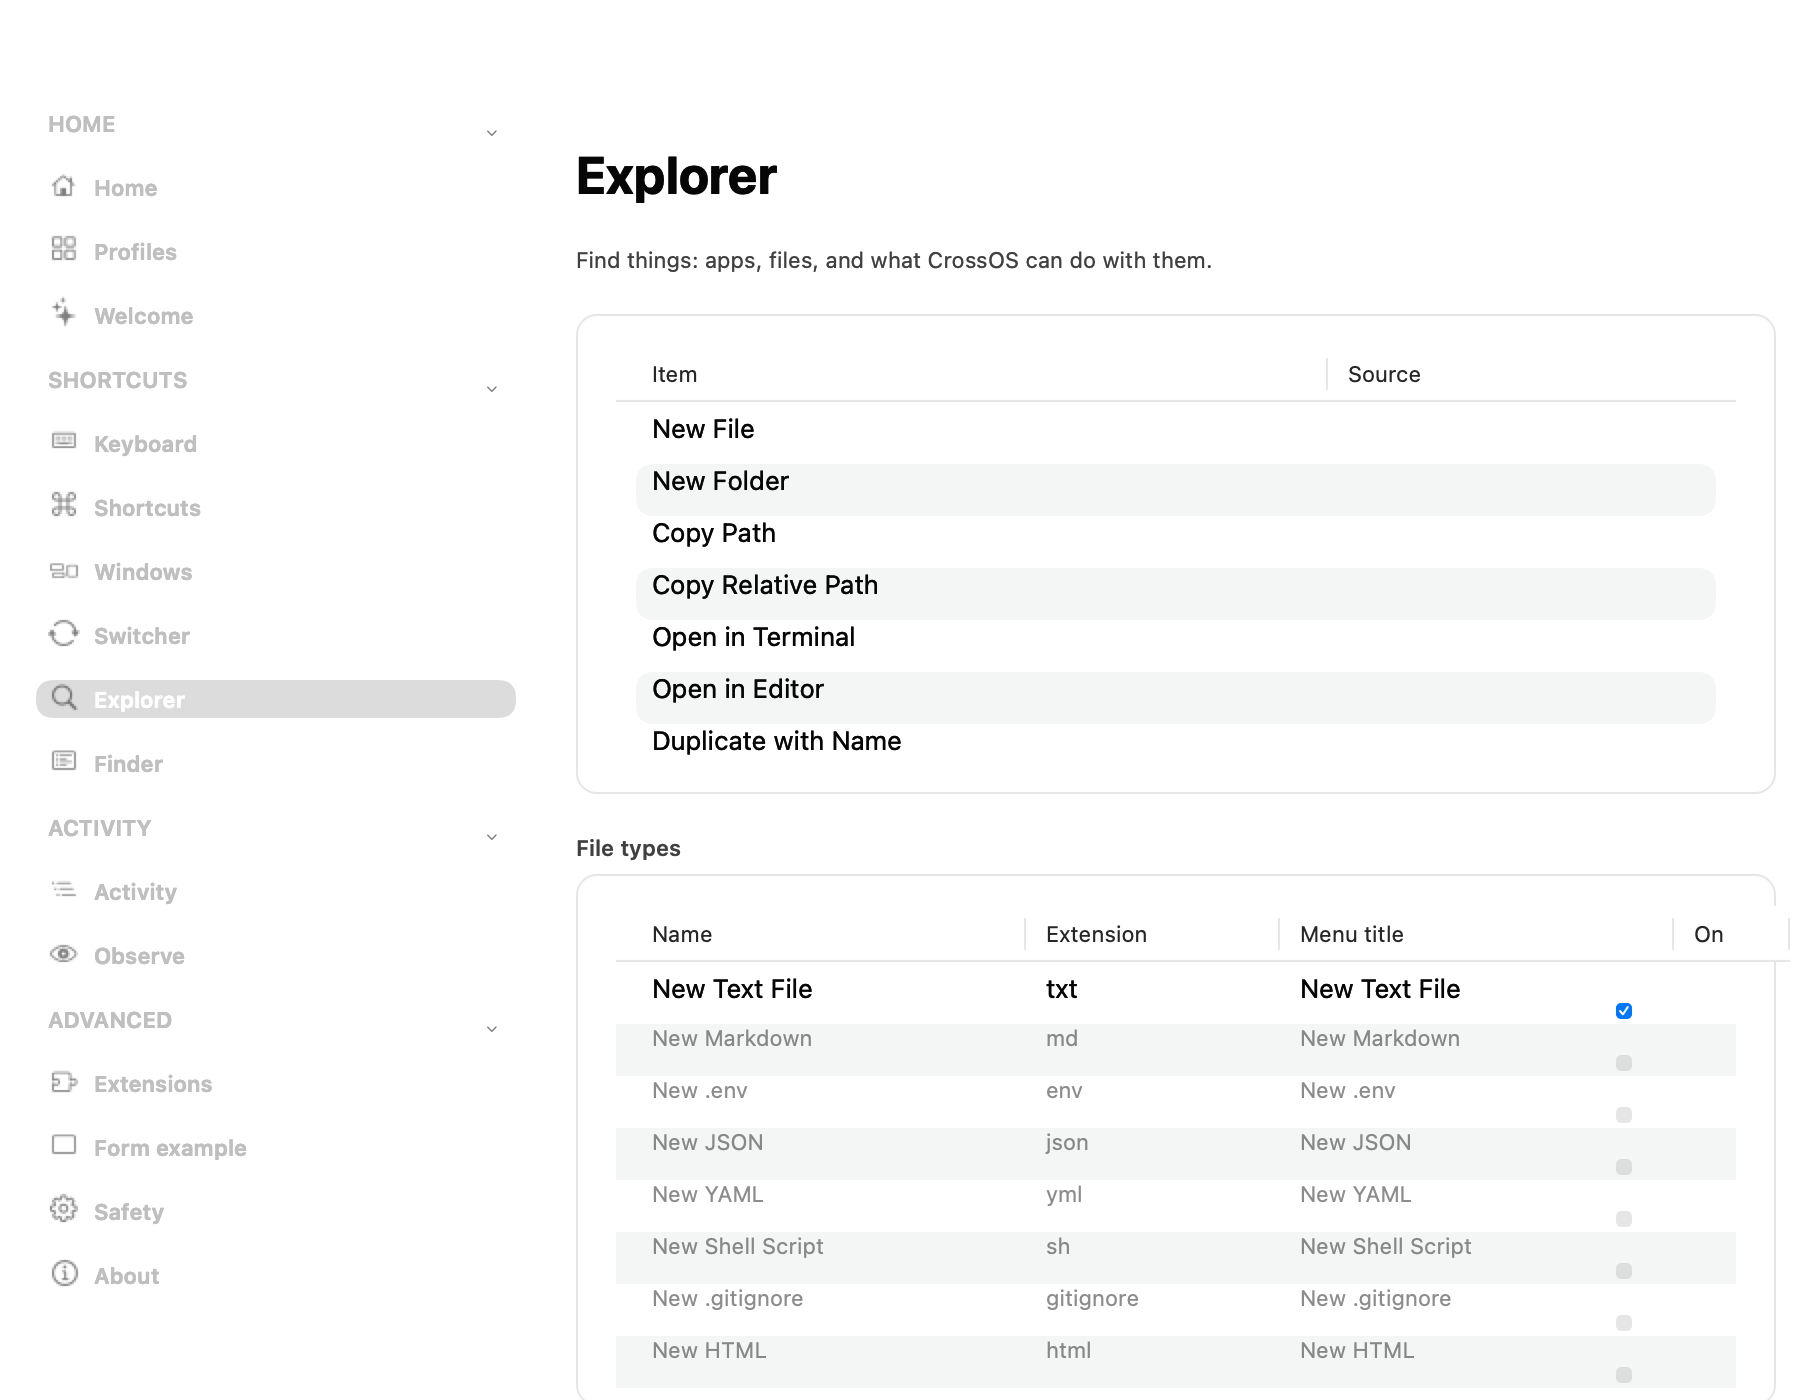
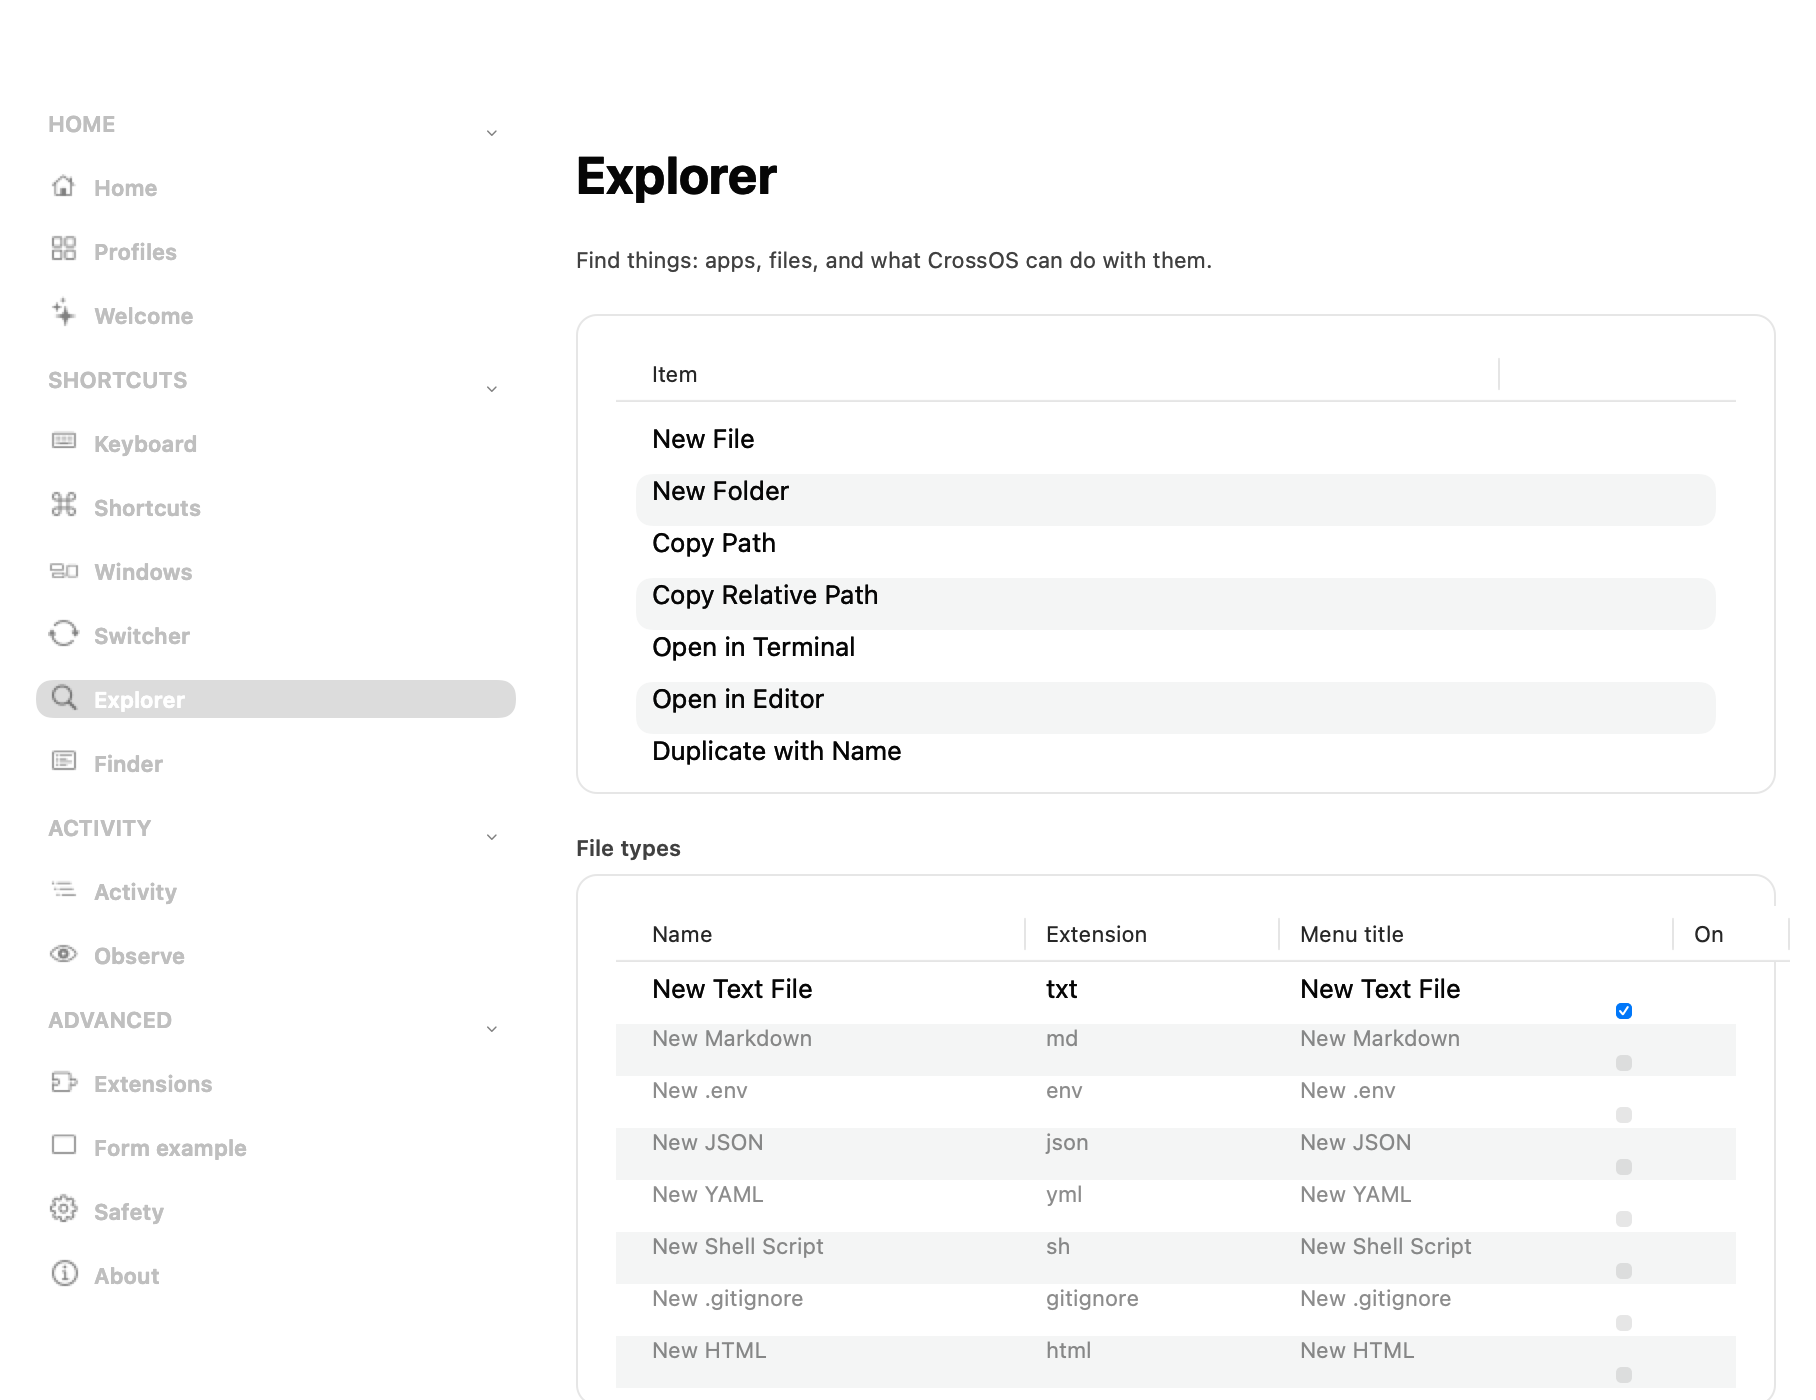
feat: the Finder page finally shows what the Finder extension adds
`core.finder` is titled "Finder" and describes itself as "What the Finder
extension adds" — and then added nothing. It rendered a title, a
description and one sentence: a page that promises a list and shows a
promise. That is exactly the dead-UI case, and it survived every audit
because every audit here measures whether something is drawn, not
whether the page says what it says.

`core.finderMenu` has been serving those items the whole time — New File,
New Folder, Copy Path, Copy Relative Path, Open in Terminal, Open in
Editor, Duplicate with Name — so this was never a data problem. The page
now declares the `menuList` control it was missing.

The `Source` column is dropped when nothing fills it. It had a header and
seven blank cells under it, and a column the reader looks into and finds
empty is worse than no column at all.

Verified: --audit 15 pages 0 fail; CoreTests 111 pass; core 26/26;
--click-test passes 3 buttons + 2 write paths + profile apply;
`core-finder.png` now lists the seven entries.

Changed region(s): [[0.3392, 0.3071, 0.4934, 0.5529], [0.7401, 0.2457, 0.7709, 0.2764]]

diff --git a/macos/Sources/CrossOSApp/Renderers.swift b/macos/Sources/CrossOSApp/Renderers.swift
@@ -551,7 +551,19 @@ extension NSView {
 /// hole: "finder — unsupported control: menuList". Naming the gap is right;
 /// leaving it there once the daemon serves the data is not.
 final class MenuListView: NSStackView, TableContent {
-    let columns: [(String, CGFloat)] = [("Item", 260), ("Source", 180)]
+    /// `Source` is DROPPED when nothing fills it.
+    ///
+    /// A column with a header and an empty cell under it is worse than no
+    /// column: the reader looks for what belongs in it and finds seven blanks.
+    /// Measured on `core.finder`, every row said nothing under "Source" — the
+    /// daemon does not set the field on any of them.
+    var columns: [(String, CGFloat)] {
+        let hasSource = entries.contains { entry in
+            let item = entry.objectValue ?? [:]
+            return !(item["source"]?.stringValue ?? "").isEmpty
+        }
+        return hasSource ? [("Item", 260), ("Source", 180)] : [("Item", 420)]
+    }
     /// Filled by the async load below, so it cannot be a `let`: a control
     /// whose data arrives from the daemon has to be able to change once, and
     /// this is the one place it does.

diff --git a/core/pkg/pluginapi/pages.go b/core/pkg/pluginapi/pages.go
@@ -221,9 +221,19 @@ func finderPage() UIContribution {
 		Type:        "page",
 		Description: "What the Finder extension adds.",
 		Controls: []map[string]any{
+			// The LIST, not just a paragraph about a list.
+			//
+			// The page is titled "Finder", describes itself as "What the
+			// Finder extension adds" — and then adds nothing. It rendered a
+			// title, a description and one sentence: a page that promises a
+			// list and shows a promise. `core.finderMenu` serves those items the
+			// whole time, so this was never a data problem.
+			control("menuList", "finderMenu", map[string]any{
+				"source": "core:finderMenu",
+			}),
 			control("note", "finderNote", map[string]any{
-				"label": "The Finder Sync extension is what draws CrossOS's entries in Finder.",
-				"note":  "If nothing appears in a Finder menu, this is the first thing to check.",
+				"label": "The Finder Sync extension is what draws these entries in Finder.",
+				"note":  "If nothing appears in a Finder menu, the extension is the first thing to check.",
 			}),
 		},
 	}), nil, "true")
